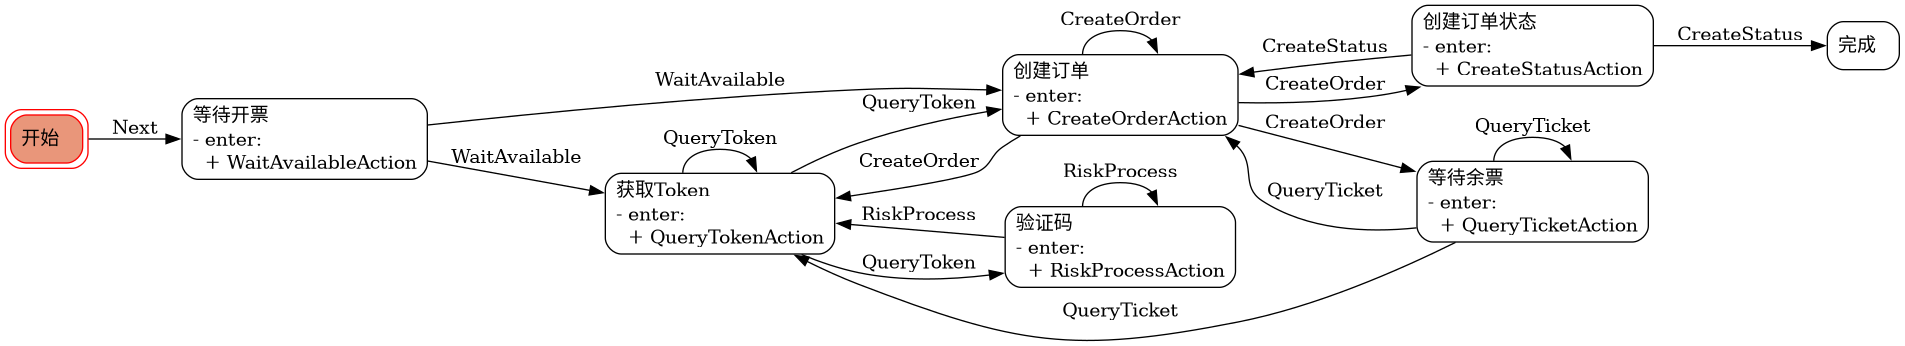
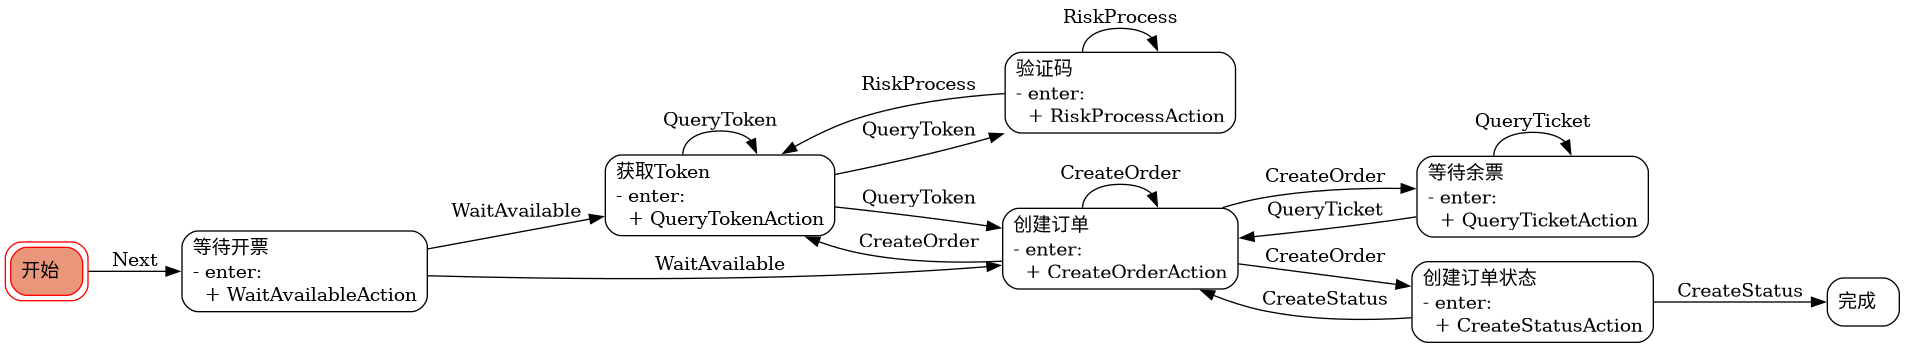
feat:每1.5分钟create一次&取消暂时售罄算作有票

diff --git a/util/Task/__init__.py b/util/Task/__init__.py
@@ -121,14 +121,8 @@ class Task:
         self.machine.add_transition(
             trigger="QueryTicket",
             source="等待余票",
-            dest="获取Token",
-            conditions=lambda: not self.data.TimestampCheck(timestamp=self.refreshTime, duration=self.refreshInterval),
-        )
-        self.machine.add_transition(
-            trigger="QueryTicket",
-            source="等待余票",
             dest="创建订单",
-            conditions=lambda: self.queryTicketCode,
+            conditions=lambda: self.queryTicketCode or not self.data.TimestampCheck(timestamp=self.refreshTime, duration=self.refreshInterval),
         )
         self.machine.add_transition(
             trigger="QueryTicket",
@@ -148,7 +142,7 @@ class Task:
             trigger="CreateOrder",
             source="创建订单",
             dest="获取Token",
-            conditions=lambda: self.createOrderCode in range(100050, 100060) or not self.data.TimestampCheck(timestamp=self.refreshTime, duration=self.refreshInterval),
+            conditions=lambda: self.createOrderCode in range(100050, 100060),
         )
         self.machine.add_transition(
             trigger="CreateOrder",
@@ -160,7 +154,9 @@ class Task:
             trigger="CreateOrder",
             source="创建订单",
             dest="创建订单",
-            conditions=lambda: self.createOrderCode not in [0, 219, 100009, *range(100050, 100060)] or self.data.TimestampCheck(timestamp=self.api.saleStart, duration=self.goldTime),
+            conditions=lambda: self.createOrderCode not in [0, 219, 100009, *range(100050, 100060)]
+            or self.data.TimestampCheck(timestamp=self.api.saleStart, duration=self.goldTime)
+            or not self.data.TimestampCheck(timestamp=self.refreshTime, duration=self.refreshInterval),
         )
 
         # 创建订单状态结束
@@ -181,9 +177,9 @@ class Task:
         self.slowSleep = 1
         # ERR3 Sleep
         self.errSleep = 4.96
-        # 刷新Token间隔
-        self.refreshInterval = 7.5
-        # 上次刷新Token时间
+        # 重试创建订单间隔
+        self.refreshInterval = 1.5
+        # 上次重试创建订单时间
         self.refreshTime = 0
         # 是否跳过Token获取
         self.skipToken = False
@@ -272,7 +268,6 @@ class Task:
             # 成功
             case 0:
                 logger.success("【获取Token】Token获取成功!")
-                self.refreshTime = int(time())
 
             # 验证
             case -401:
@@ -357,7 +352,7 @@ class Task:
         """
         logger.info("【获取票数】正在蹲票...")
         code, msg, clickable, salenum = self.api.QueryAmount()
-        self.queryTicketCode = clickable or salenum != 4  # 2: 可售 4: 已售罄 8: 暂时售罄
+        self.queryTicketCode = clickable or salenum == 2  # 2: 可售 4: 已售罄 8: 暂时售罄
 
         match code:
             # 成功
@@ -393,6 +388,7 @@ class Task:
         """
         logger.info("【创建订单】正在尝试创建订单...")
         self.createOrderCode, msg = self.api.CreateOrder()
+        self.refreshTime = int(time())
 
         match self.createOrderCode:
             # 成功
